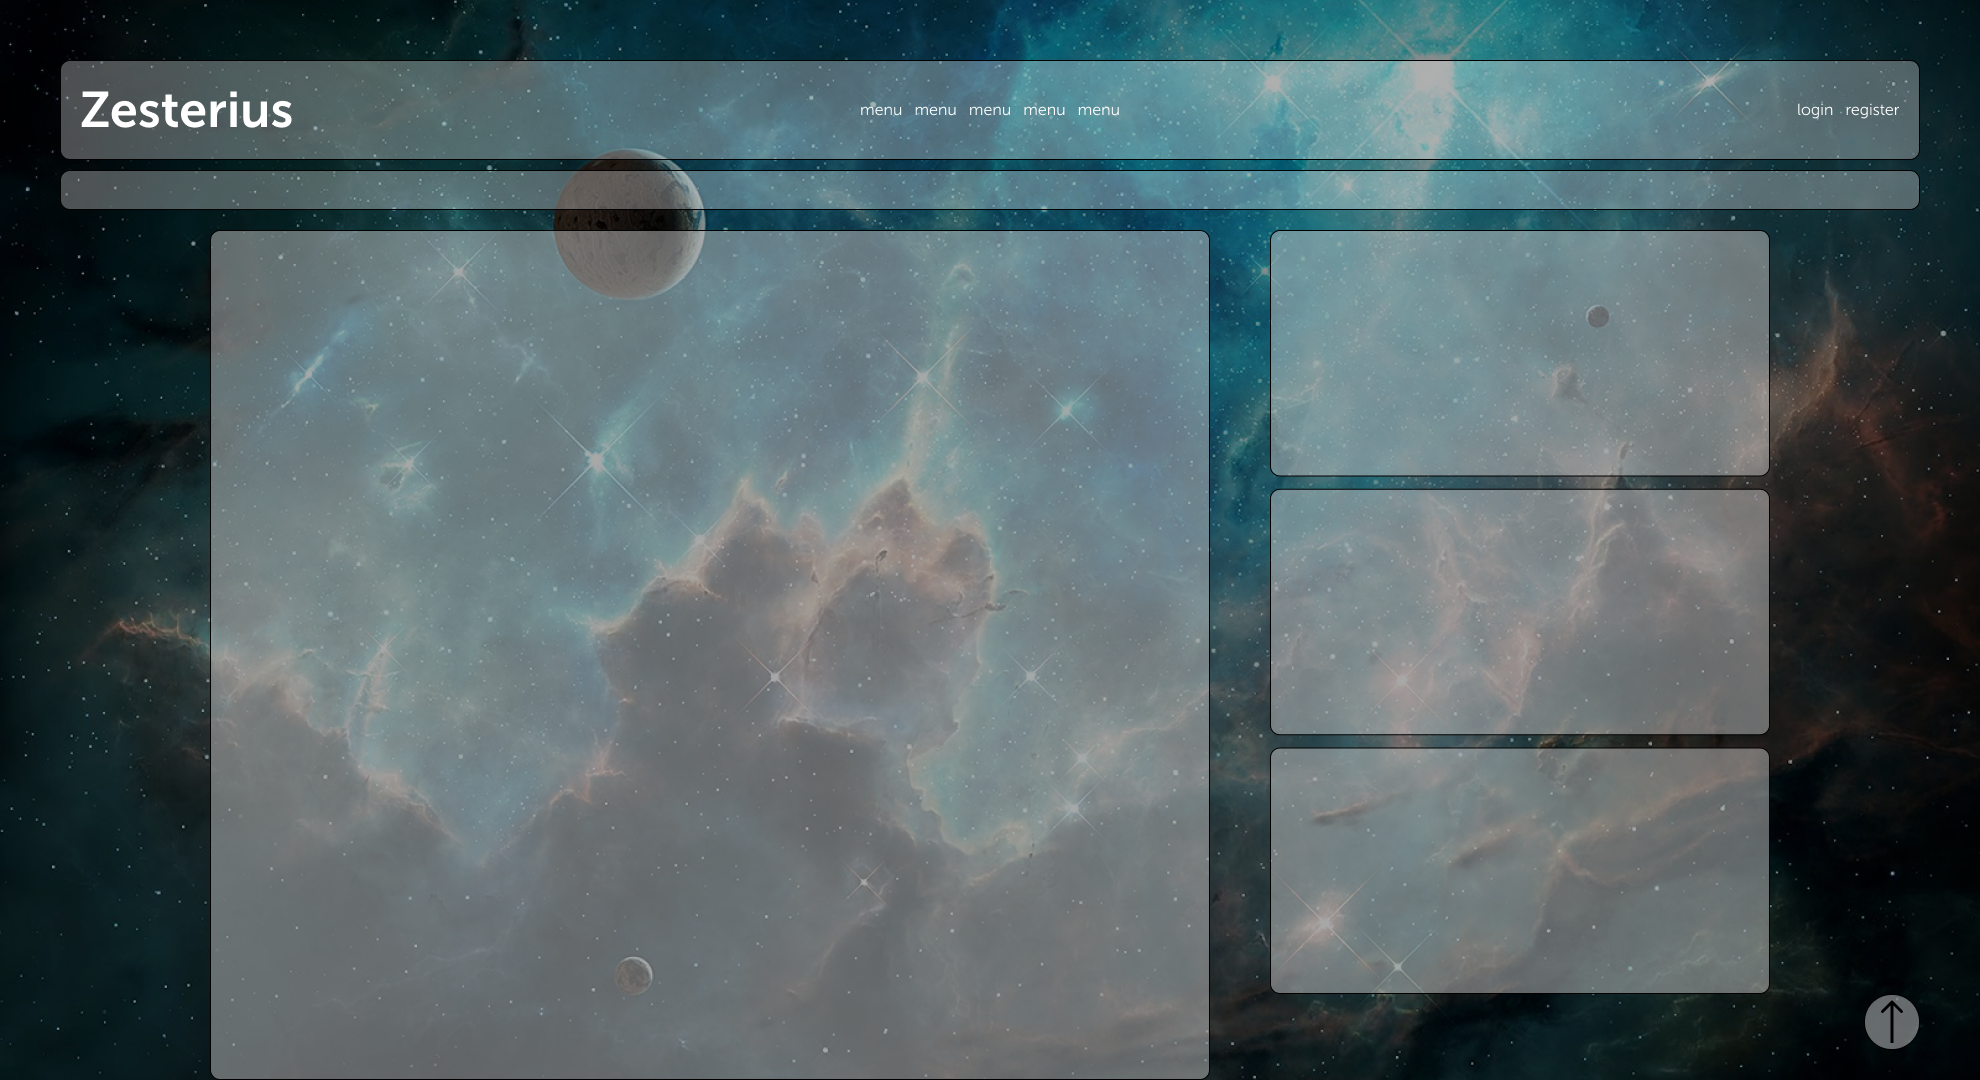
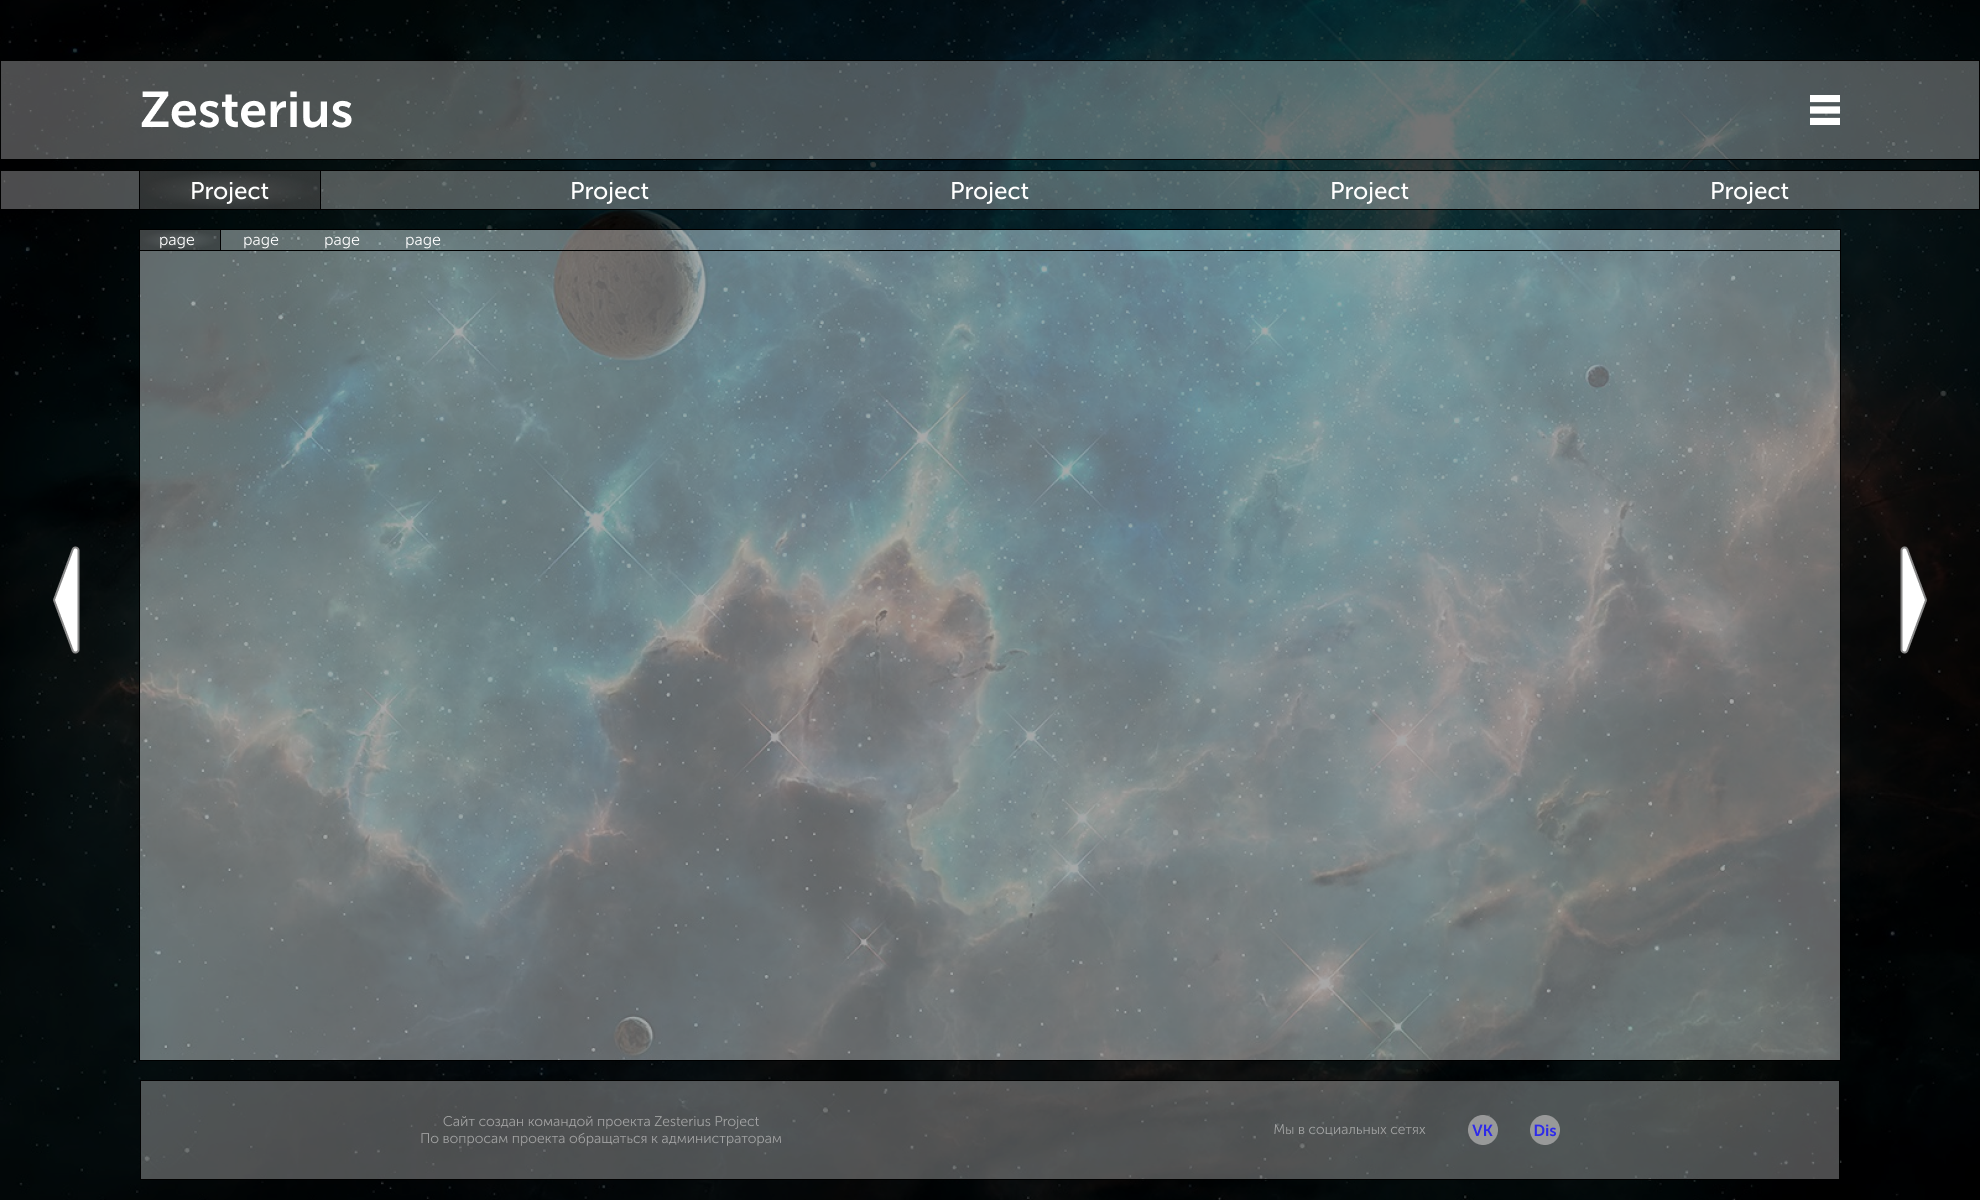
commit update_v0.101

diff --git a/Zesterius Main Site/main/index.html b/Zesterius Main Site/main/index.html
@@ -1,0 +1,155 @@
+<!DOCTYPE html>
+<html>
+<head>
+
+  <title>Zesterius project</title>
+
+  <meta charset="UTF-8">
+  <meta name="viewport" content="width=device-width, initial-scale=1.0">
+  <meta http-equiv="X-UA-Compatible" content="ie=edge">
+
+  <link rel="stylesheet" href="css/main.css">
+  <link rel="stylesheet" href="css/top_panel.css">
+  <link rel="stylesheet" href="css/screen.css">
+  <link rel="stylesheet" href="css/footer.css">
+
+  <link rel="stylesheet" href="css/menu.css">
+
+</head>
+<body>
+
+  <section>
+
+    <header id="header">
+      <div class="top_main">
+        <article>
+          <nav class="top">
+            <div class="logotipe">
+              <p><a class="logo" href="">Zesterius</a></p>
+            </div>
+
+            <div class="open_menu_button">
+              <span>
+                &equiv;
+              </span>
+            </div>
+          </nav>
+        </article>
+      </div>
+
+      <div class="top_project">
+        <article>
+            <nav class="project_bar">
+              <div class="project active_project">
+                <p>
+                  Project
+                </p>
+              </div>
+              <div class="project">
+                <p>
+                  Project
+                </p>
+              </div>
+              <div class="project">
+                <p>
+                  Project
+                </p>
+              </div>
+              <div class="project">
+                <p>
+                  Project
+                </p>
+              </div>
+            </nav>
+        </article>
+      </div>
+    </header>
+
+    <main id="main">
+      <div class="cont">
+        <article>
+
+          <nav class="page_bar">
+            <div class="page active_page">
+              <p>
+                page
+              </p>
+            </div>
+            <div class="page">
+              <p>
+                page
+              </p>
+            </div>
+            <div class="page">
+              <p>
+                page
+              </p>
+            </div>
+            <div class="page">
+              <p>
+                page
+              </p>
+            </div>
+          </nav>
+
+          <div class="content">
+            <div class="projectname_pagename active_content">
+
+            </div>
+
+            <div class="projectname_pagename">
+
+            </div>
+
+            <div class="projectname_pagename">
+
+            </div>
+
+
+
+          </div>
+
+        </article>
+      </div>
+      <img class="left_button" src="" alt="">
+      <img class="right_button" src="" alt="">
+    </main>
+
+    <footer id="footer">
+      <div class="foot">
+        <article>
+          <div class="zesterius_team">
+            <div class="created">
+              <p>
+                Сайт создан командой проекта <a class="we" href="#">Zesterius Project</a><br/>
+                По вопросам проекта обращаться к администраторам сайта
+              </p>
+            </div>
+            <div class="speak">
+              <p>
+                Мы в социальных сетях
+              </p>
+              <img class="social VK" src="" alt="">
+              <img class="social Dis" src="" alt="">
+            </div>
+          </div>
+        </article>
+      </div>
+    </footer>
+
+
+
+  </section>
+
+
+
+
+  <script src="js/menu_mobile.js"></script>
+  <script src="js/menu_pc.js"></script>
+  <script src="js/page_mobile.js"></script>
+  <script src="js/page_pc.js"></script>
+  <script src="js/"></script>
+  <script src="js/"></script>
+
+</body>
+</html>

diff --git a/Zesterius Main Site/main/css/main.css b/Zesterius Main Site/main/css/main.css
@@ -1,0 +1,23 @@
+*{
+  margin: 0; padding: 0;
+}
+
+a, li, table{
+  text-decoration: none;
+  text-transform: none;
+}
+
+body{
+  text-align: left;
+  font-size: 16px;
+  color: white;
+}
+
+section{
+  background-image: url(../img/background.png);
+  background-repeat: no-repeat;
+  background-size: 100vw 100vh;
+  background-attachment: fixed;
+
+  width: 100%;
+}
